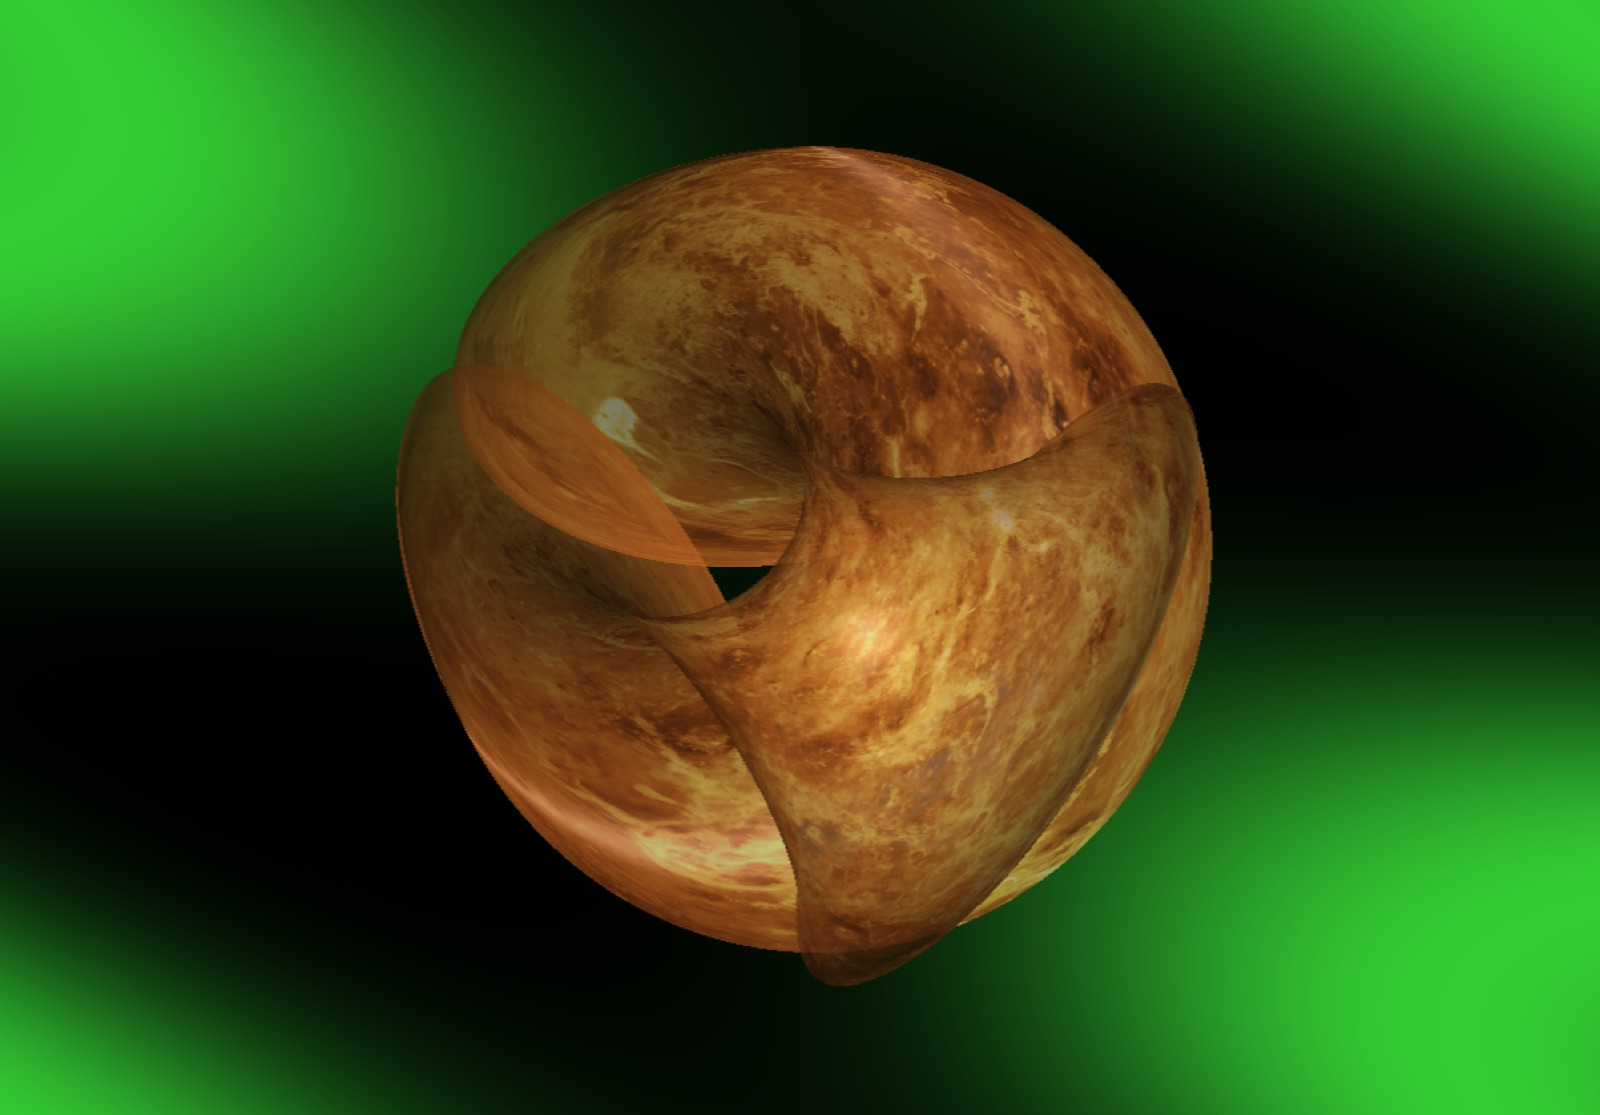
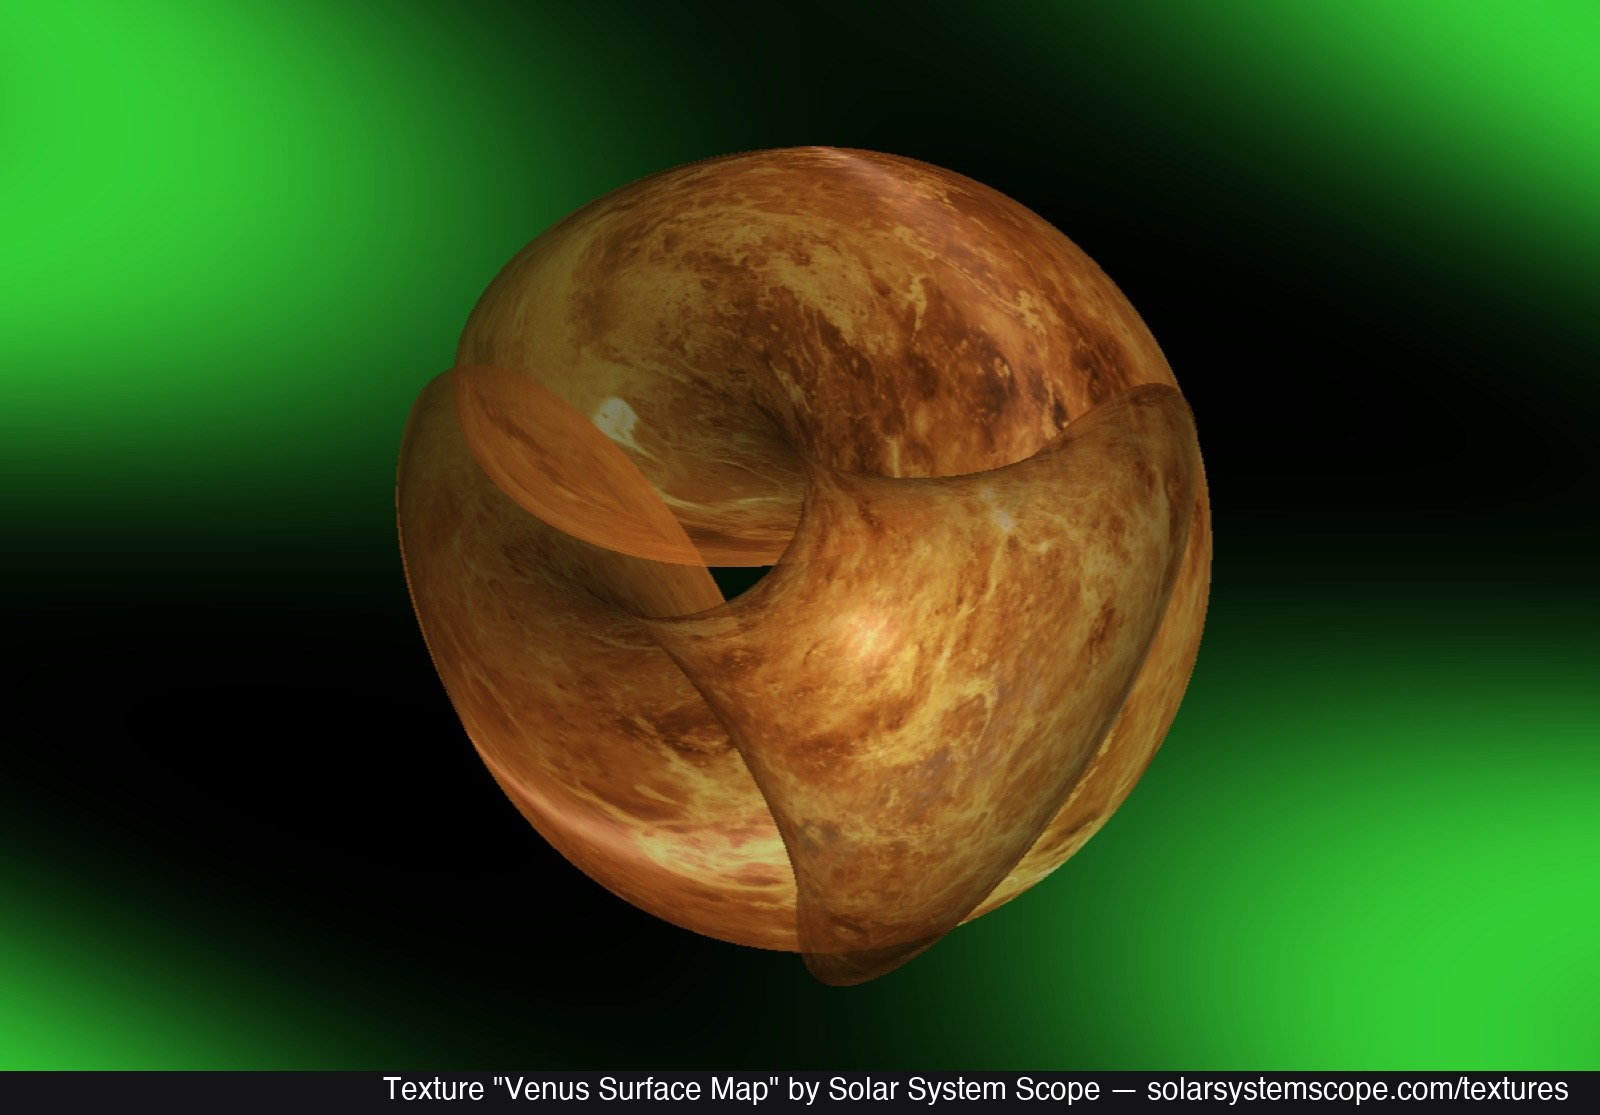
docs: crediti texture impressi e Spherical Cycloid Tube in galleria
- Gallery: nuova immagine Spherical Cycloid Tube (tubo attorno alla cicloide
  sferica generata dal rotolamento di un cono su un altro), ridimensionata al
  formato 1600x1115 e inserita in ordine alfabetico.

- Crediti delle texture su Enneper e Hyperbolic Mobius Band, sia in didascalia
  sia impressi nell'immagine come su Kerr Space Slice: banda scura in fondo,
  testo allineato a destra con gli stessi margini, misurati sull'originale.
    Enneper                 -> Venus surface map, Solar System Scope
    Hyperbolic Mobius Band  -> "Squished Coordinates" di pyBlob (shadertoy)

Changed region(s): [[0.0, 0.9453, 1.0, 1.0]]

diff --git a/docs/gallery.html b/docs/gallery.html
@@ -178,7 +178,7 @@
             </a>
             <figcaption>
                 Enneper
-                <span class="sub">the minimal surface carried into the hyperbolic ball</span>
+                <span class="sub">the minimal surface carried into the hyperbolic ball &mdash; texture: Venus surface map by <a href="https://www.solarsystemscope.com/textures/" target="_blank" rel="noopener">Solar System Scope</a></span>
             </figcaption>
         </figure>
         <figure>
@@ -232,7 +232,7 @@
             </a>
             <figcaption>
                 Hyperbolic M&ouml;bius Band
-                <span class="sub">one side and one edge, carried into hyperbolic space</span>
+                <span class="sub">one side and one edge, carried into hyperbolic space &mdash; texture &ldquo;Squished Coordinates&rdquo; by pyBlob &mdash; <a href="https://www.shadertoy.com/view/W3KcWd" target="_blank" rel="noopener">shadertoy.com/view/W3KcWd</a></span>
             </figcaption>
         </figure>
         <figure>
@@ -359,6 +359,15 @@
             <figcaption>
                 S&sup3; Slice
                 <span class="sub">a slice of the three-sphere brought down to 3D</span>
+            </figcaption>
+        </figure>
+        <figure>
+            <a href="media/Gallery/Parametric/spherical-cycloid-tube.jpg" target="_blank" rel="noopener">
+                <img src="media/Gallery/Parametric/spherical-cycloid-tube.jpg" alt="Tube following a spherical cycloid traced by one cone rolling on another, in the looped regime" loading="lazy">
+            </a>
+            <figcaption>
+                Spherical Cycloid Tube
+                <span class="sub">a cone rolling on another traces this curve on the sphere; past the cusp threshold each petal opens into a loop</span>
             </figcaption>
         </figure>
         <figure>
